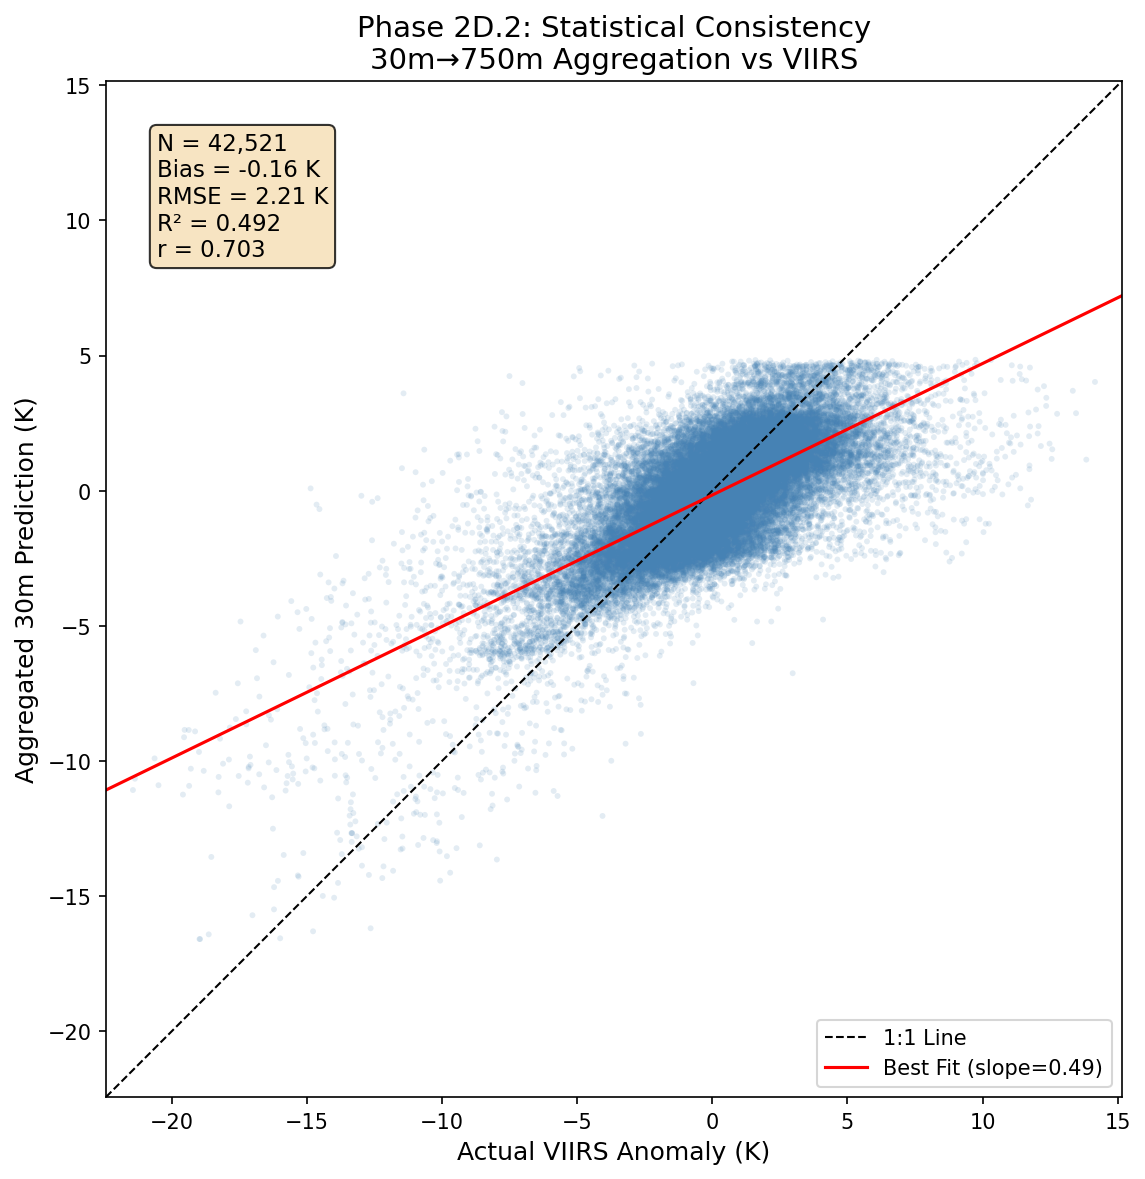
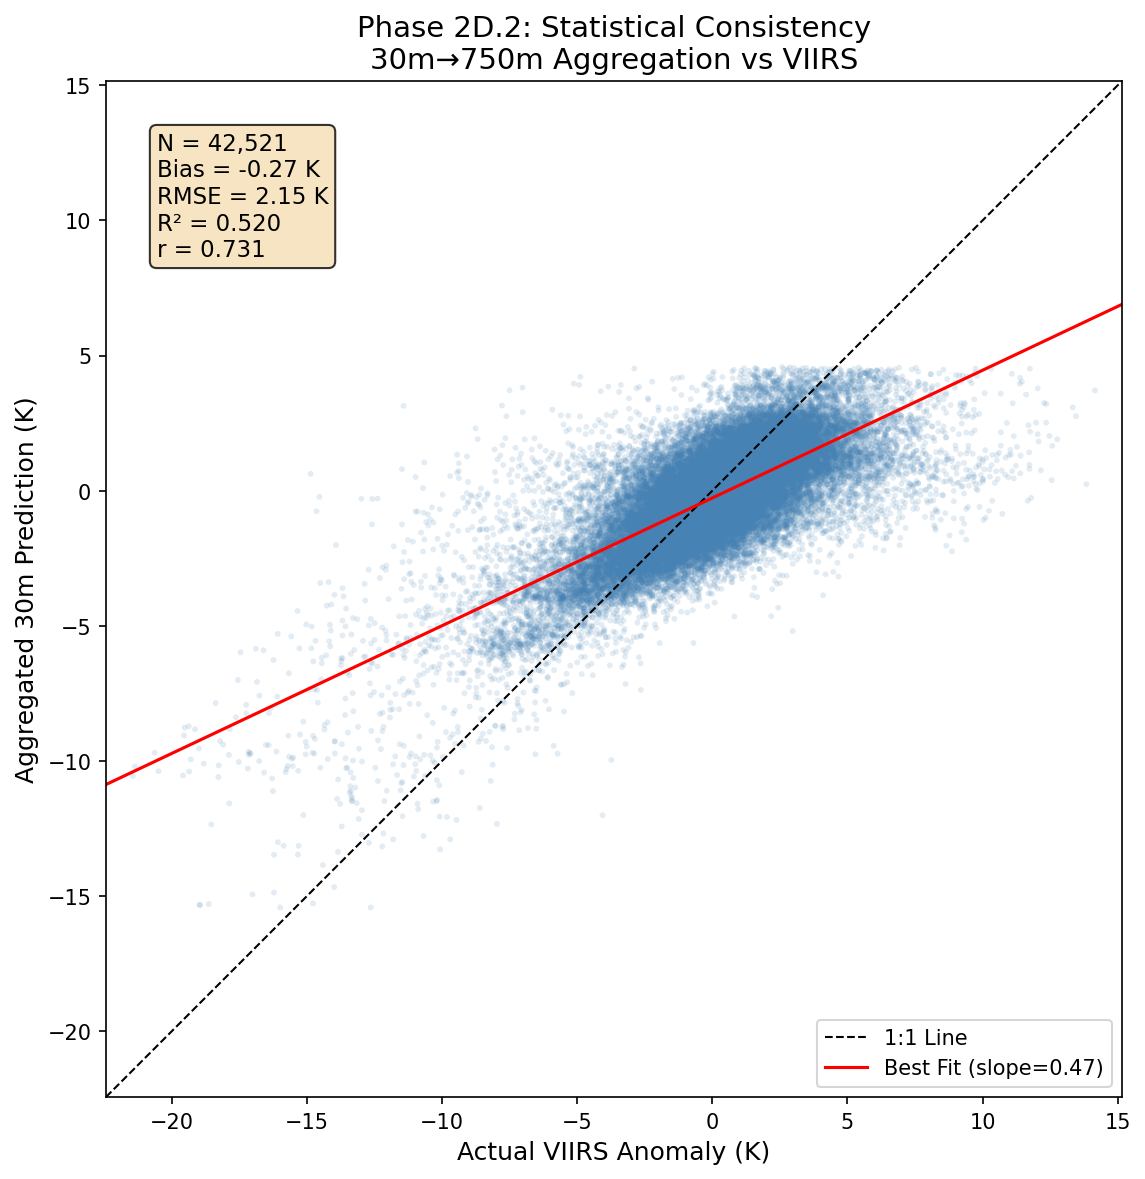
Updated downscale to deal with the std rasters as well

diff --git a/src/phase2_downscaling/downscale.py b/src/phase2_downscaling/downscale.py
@@ -22,10 +22,15 @@ OUTPUT_PATH = OUTPUT_DIR / "lst_anomaly_30m.tif"
 # Feature rasters in the SAME ORDER as the training features
 FEATURE_FILES = {
     'ndvi_mean':                DATA_DIR / "ndvi_30m.tif",
+    'ndvi_std':                 DATA_DIR / "ndvi_std_30m.tif",
     'albedo_mean':              DATA_DIR / "albedo_30m.tif",
+    'albedo_std':               DATA_DIR / "albedo_std_30m.tif",
     'building_density_mean':    DATA_DIR / "building_density_30m.tif",
+    'building_density_std':     DATA_DIR / "building_density_std_30m.tif",
     'height_mean':              DATA_DIR / "height_30m.tif",
+    'height_std':               DATA_DIR / "height_std_30m.tif",
     'road_density_mean':        DATA_DIR / "road_density_30m.tif",
+    'road_density_std':         DATA_DIR / "road_density_std_30m.tif",
     'sand_mask_fraction':       DATA_DIR / "sand_mask_30m.tif",
     'water_mask_full_fraction': DATA_DIR / "water_mask_full_30m.tif",
     'dist_to_coast_m':          DATA_DIR / "dist_to_coast_30m.tif",
@@ -58,7 +63,7 @@ def main():
     logger.info(f"Grid: {height}x{width}, CRS: {ref_crs}")
     
     # 2. Load all feature rasters
-    logger.info("Loading 8 feature rasters...")
+    logger.info(f"Loading {len(FEATURE_FILES)} feature rasters...")
     feature_names = list(FEATURE_FILES.keys())
     # creating a 3D map
     feature_stack = np.zeros((len(feature_names), height, width), dtype=np.float32)
@@ -66,7 +71,7 @@ def main():
     valid_mask = np.ones((height, width), dtype=bool)
     
     for i, (name, path) in enumerate(FEATURE_FILES.items()):
-        logger.info(f"  [{i+1}/8] {name}: {path.name}")
+        logger.info(f"  [{i+1}/{len(FEATURE_FILES)}] {name}: {path.name}")
         
         with rasterio.open(path) as src:
             data = src.read(1).astype(np.float32)
@@ -75,20 +80,29 @@ def main():
             # Only NDVI/Albedo and Density/Roads define the study area boundary.
             # Height, Sand, Water, Coast use 0 as a valid value (no buildings, no sand, etc.)
             
-            if nodata == -9999.0:
-                # NDVI, Albedo: -9999 means outside study area
-                outside = (data <= -9000)
-                valid_mask &= ~outside
-                data[outside] = 0  # Replace sentinel with 0 for model input
+            if name.endswith('_std'):
+                # Std Dev rasters have NaN where the 750m window had absolutely 0 valid data
+                # (e.g., 0 buildings, 0 roads). This means 0 variation. 
+                # Do NOT erode the valid_mask. Just fill with 0.
+                if nodata is not None and np.isnan(nodata):
+                    data[np.isnan(data)] = 0.0
+                elif nodata is not None:
+                    data[data == nodata] = 0.0
+            else:
+                # Primary features: define the valid_mask geometry
+                if nodata == -9999.0:
+                    # NDVI, Albedo: -9999 means outside study area
+                    outside = (data <= -9000)
+                    valid_mask &= ~outside
+                    data[outside] = 0  # Replace sentinel with 0 for model input
+                    
+                elif nodata is not None and np.isnan(nodata):
+                    # Density, Roads: NaN means outside study area
+                    outside = np.isnan(data)
+                    valid_mask &= ~outside
+                    data[outside] = 0
                 
-            elif nodata is not None and np.isnan(nodata):
-                # Density, Roads: NaN means outside study area
-                outside = np.isnan(data)
-                valid_mask &= ~outside
-                data[outside] = 0
-            
-            # Height (nodata=0), Sand (nodata=0), Water (nodata=0), Coast (nodata=-1):
-            # 0 is a VALID value, do NOT mask these
+                # Height, Sand, Water, Coast: 0 is a VALID value, do NOT mask these
             
             feature_stack[i] = data
     
